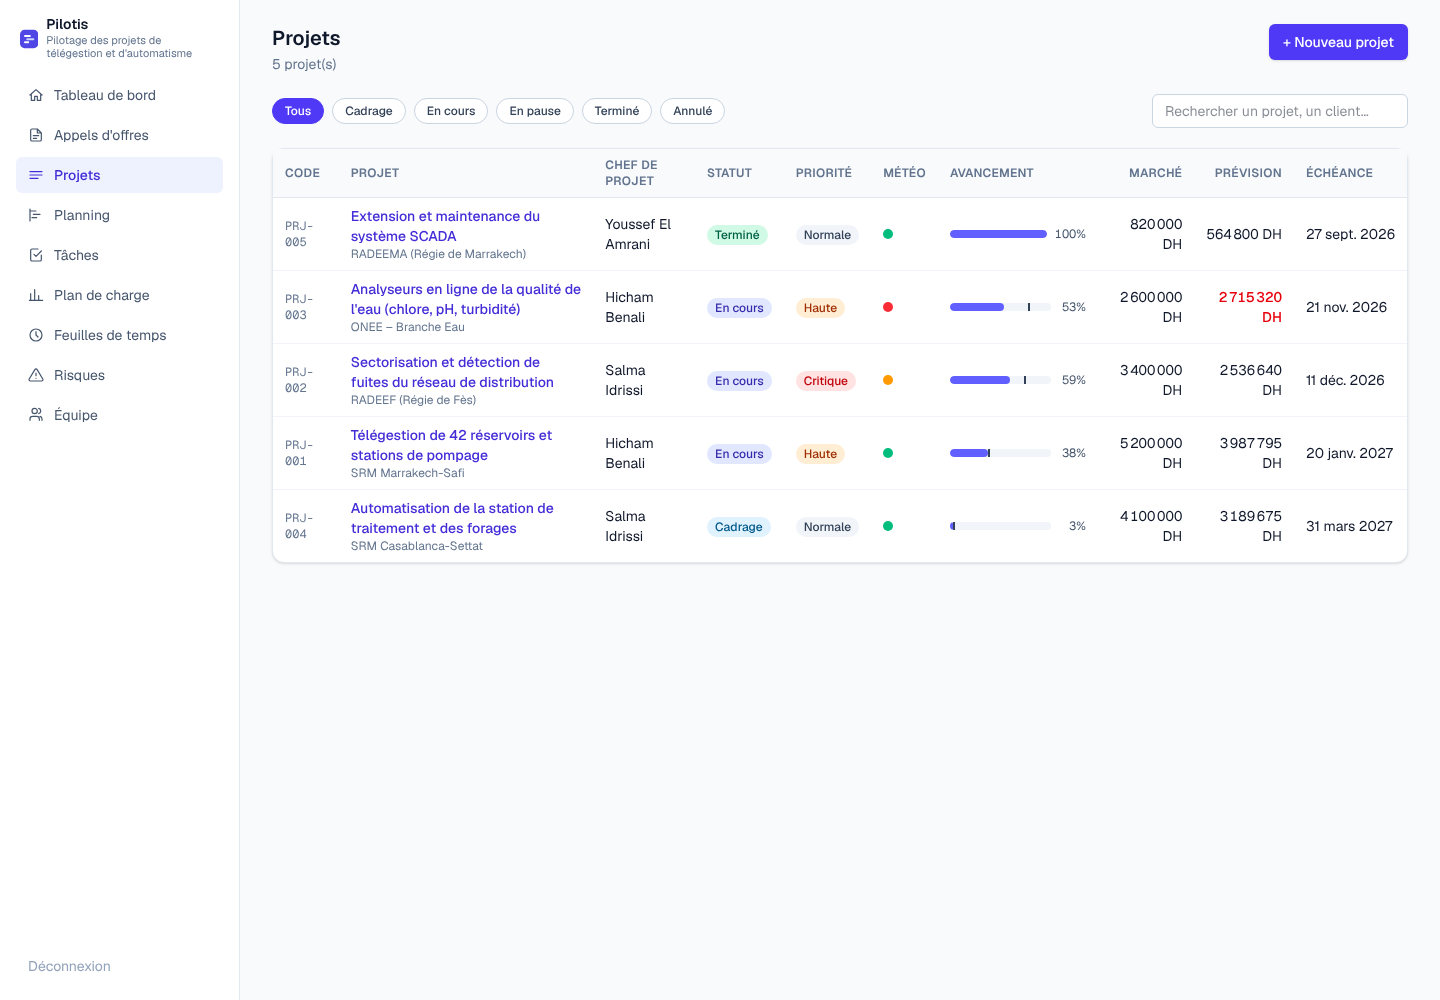
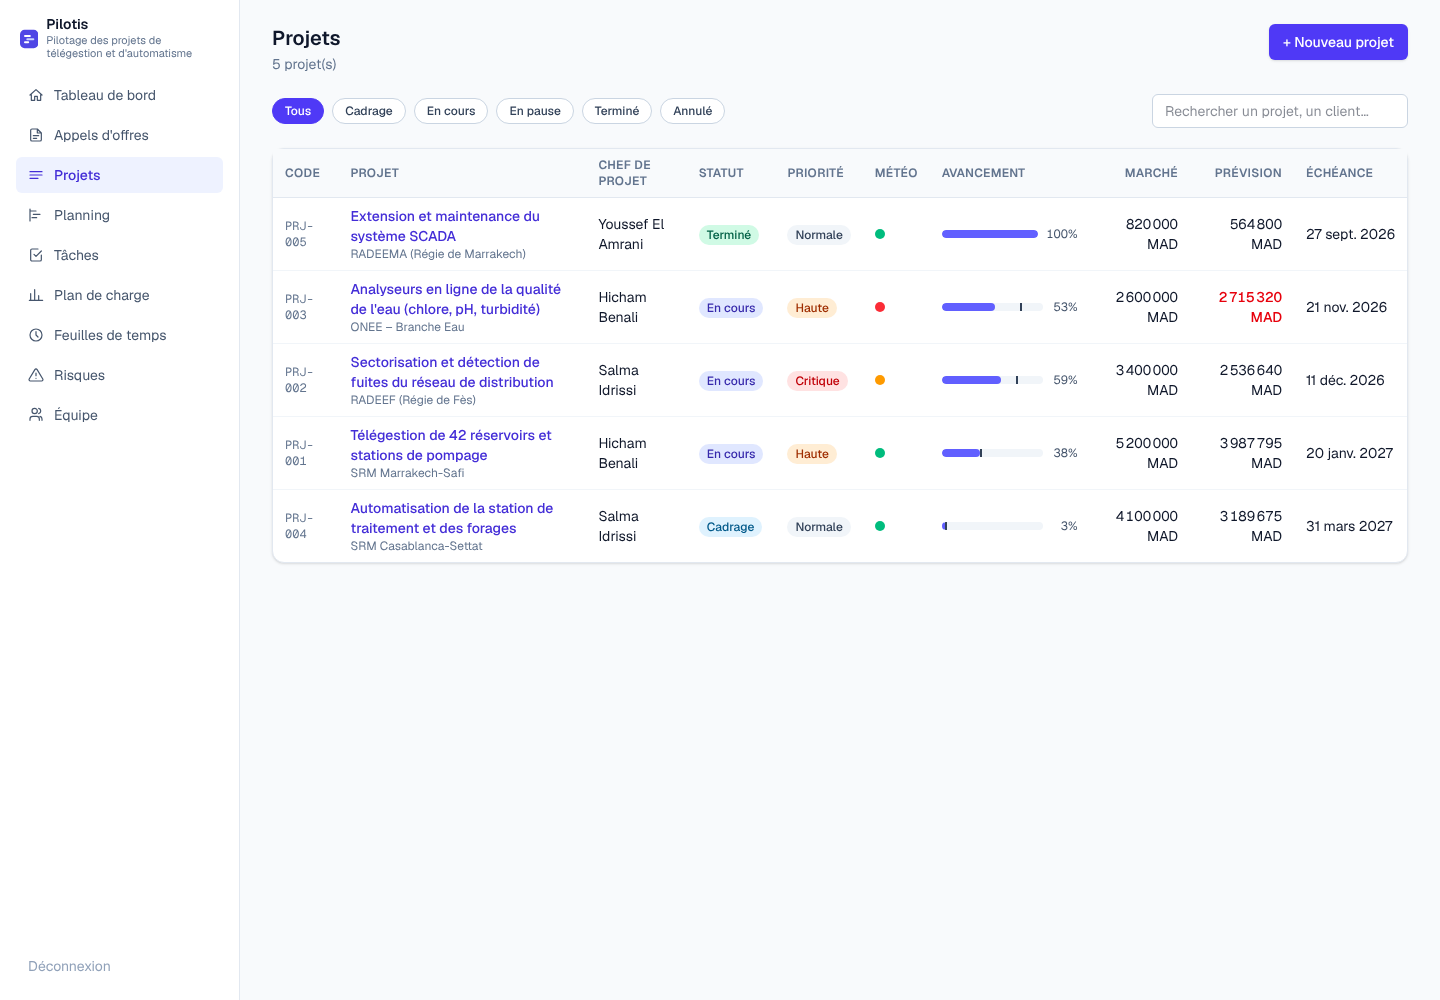
Pilotis : montants affichés en MAD
Claude-Session: https://claude.ai/code/session_01FNfKNW4S5zYNRJuSUz7SCP

diff --git a/gestion-projet/src/app/(app)/appels-offres/AppelOffreForm.tsx b/gestion-projet/src/app/(app)/appels-offres/AppelOffreForm.tsx
@@ -70,15 +70,15 @@ export function AppelOffreForm({
           <input type="date" name="dateLimite" required defaultValue={dateInput(valeurs.dateLimite)} className={inputClass} />
         </div>
         <div>
-          <label className={labelClass}>Estimation MO (DH)</label>
+          <label className={labelClass}>Estimation MO (MAD)</label>
           <input type="number" min="0" step="1000" name="montantEstime" defaultValue={valeurs.montantEstime ?? ""} className={inputClass} />
         </div>
         <div>
-          <label className={labelClass}>Montant soumis (DH)</label>
+          <label className={labelClass}>Montant soumis (MAD)</label>
           <input type="number" min="0" step="1000" name="montantSoumis" defaultValue={valeurs.montantSoumis ?? ""} className={inputClass} />
         </div>
         <div>
-          <label className={labelClass}>Caution provisoire (DH)</label>
+          <label className={labelClass}>Caution provisoire (MAD)</label>
           <input type="number" min="0" step="1000" name="cautionProvisoire" defaultValue={valeurs.cautionProvisoire ?? ""} className={inputClass} />
         </div>
         <div>

diff --git a/gestion-projet/src/app/(app)/projets/formulaires.tsx b/gestion-projet/src/app/(app)/projets/formulaires.tsx
@@ -136,7 +136,7 @@ export function ProjetForm({
           <Choix nom="meteo" valeurs={METEOS} defaut={valeurs.meteo} />
         </div>
         <div>
-          <label className={labelClass}>Budget (DH HT)</label>
+          <label className={labelClass}>Budget (MAD HT)</label>
           <input type="number" min="0" step="100" name="budget" defaultValue={valeurs.budget ?? 0} className={inputClass} />
         </div>
         <div className="sm:col-span-2">
@@ -333,7 +333,7 @@ export function DepenseForm({ action }: { action: (formData: FormData) => void }
         <Choix nom="categorie" valeurs={CATEGORIES_DEPENSE} />
       </div>
       <div>
-        <label className={labelClass}>Montant (DH)</label>
+        <label className={labelClass}>Montant (MAD)</label>
         <input type="number" min="0" step="1" name="montant" required className={inputClass} />
       </div>
       <div>

diff --git a/gestion-projet/src/app/(app)/equipe/MembreForm.tsx b/gestion-projet/src/app/(app)/equipe/MembreForm.tsx
@@ -36,7 +36,7 @@ export function MembreForm({
           </select>
         </div>
         <div>
-          <label className={labelClass}>Coût journalier (DH)</label>
+          <label className={labelClass}>Coût journalier (MAD)</label>
           <input type="number" min="0" step="10" name="tauxJournalier" defaultValue={valeurs.tauxJournalier ?? 0} className={inputClass} />
         </div>
         <div>

diff --git a/gestion-projet/src/lib/marque.ts b/gestion-projet/src/lib/marque.ts
@@ -2,5 +2,5 @@
 export const MARQUE = {
   nom: process.env.NEXT_PUBLIC_APP_NAME ?? "Pilotis",
   accroche: "Pilotage des projets de télégestion et d'automatisme",
-  devise: "DH",
+  devise: "MAD",
 };

diff --git a/gestion-projet/README.md b/gestion-projet/README.md
@@ -74,7 +74,7 @@ librairie de graphique : Gantt, Kanban, matrice et plan de charge sont en HTML/C
 - `src/lib/calculs.ts` — toutes les règles métier (fonctions pures).
 - `src/lib/listes.ts` — statuts, priorités, rôles, catégories : à adapter au vocabulaire du
   client sans migration.
-- `src/lib/marque.ts` — nom, accroche et devise (DH) du produit.
+- `src/lib/marque.ts` — nom, accroche et devise (MAD) du produit.
 - `src/components/gantt.tsx`, `kanban.tsx`, `risques.tsx` — composants de visualisation.
 - `src/app/(app)/*` — une route par module.
 

diff --git a/gestion-projet/GUIDE_DEMO.md b/gestion-projet/GUIDE_DEMO.md
@@ -20,7 +20,7 @@ vos marchés, vos équipes terrain et votre marge. »**
 
 ### 1. Tableau de bord (3 min) — la vision direction
 
-- 4 marchés en cours pour 15,3 M DH : un rouge, un orange, deux verts.
+- 4 marchés en cours pour 15,3 M MAD : un rouge, un orange, deux verts.
 - Pour chaque marché : avancement réel vs prévu (trait vertical), consommé vs montant du
   marché, prochain jalon (réception provisoire…), alertes.
 - **Appels d'offres à déposer** : l'AO débitmètres de l'ONEE est à J-6.
